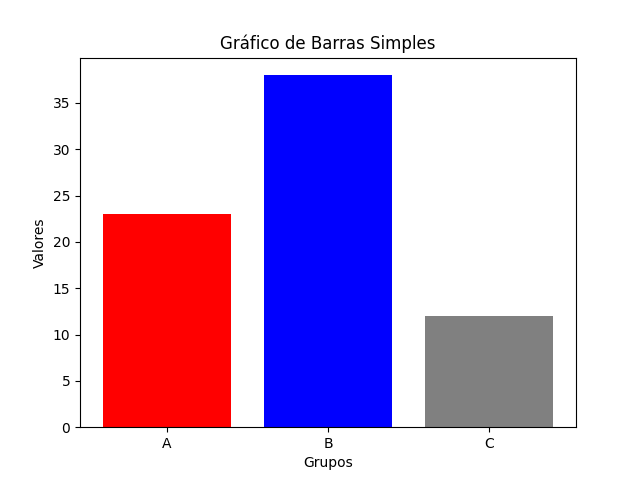
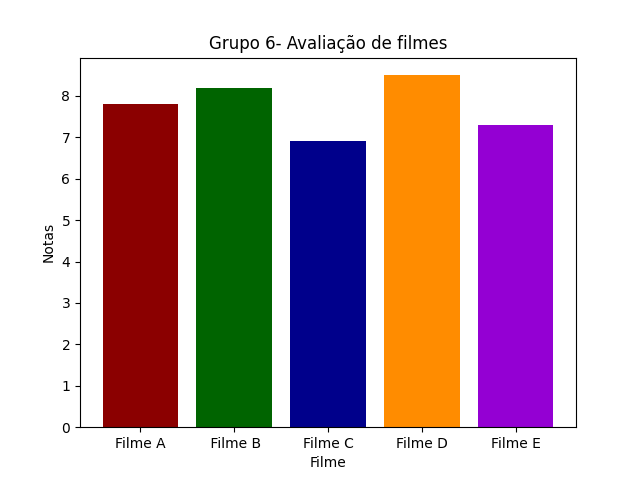
Avaliação-Pratica 2.0

diff --git a/aula01.py b/aula01.py
@@ -4,21 +4,21 @@ import matplotlib.pyplot as plt
 
 def exibirGrafico():
     # Definição dos grupos e valores
-    grupos = ['A', 'B', 'C']
-    valores = [23, 38, 12]
+    filmes = ['Filme A', ' Filme B', 'Filme C', 'Filme D', 'Filme E']
+    notas = [7.8, 8.2, 6.9, 8.5, 7.3 ]
 
     # Configura um gráfico de barras, onde recebe os grupos, valores
     # E opcionalmente as cores
-    plt.bar(grupos, valores, color=['red', 'blue', 'grey'])
+    plt.bar(filmes, notas, color=['darkred', 'darkgreen', 'darkblue', 'darkorange', 'darkviolet'])
 
     # Define o título do gráfico
-    plt.title('Gráfico de Barras Simples')
+    plt.title('Grupo 6- Avaliação de filmes')
 
     # Define o título do eixo X
-    plt.xlabel('Grupos')
+    plt.xlabel('Filme')
 
     #defini o titulo do eixo y
-    plt.ylabel('Valores')
+    plt.ylabel('Notas')
 
     #cria o gráfico
     plt.show()
